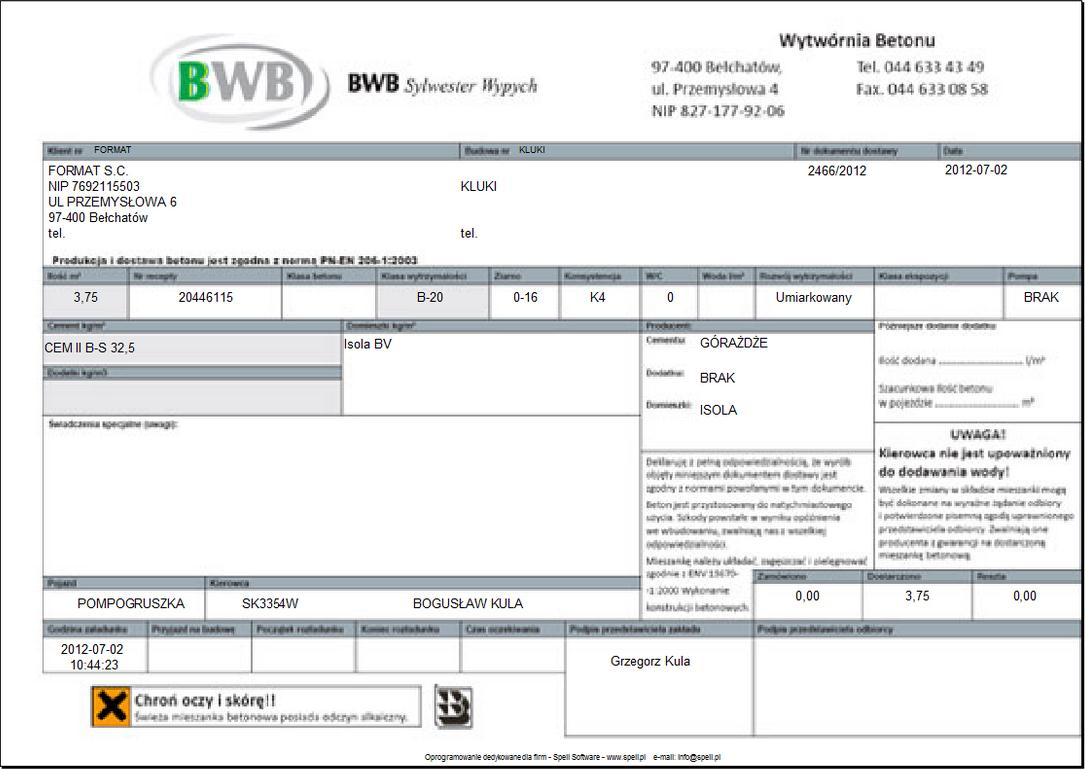
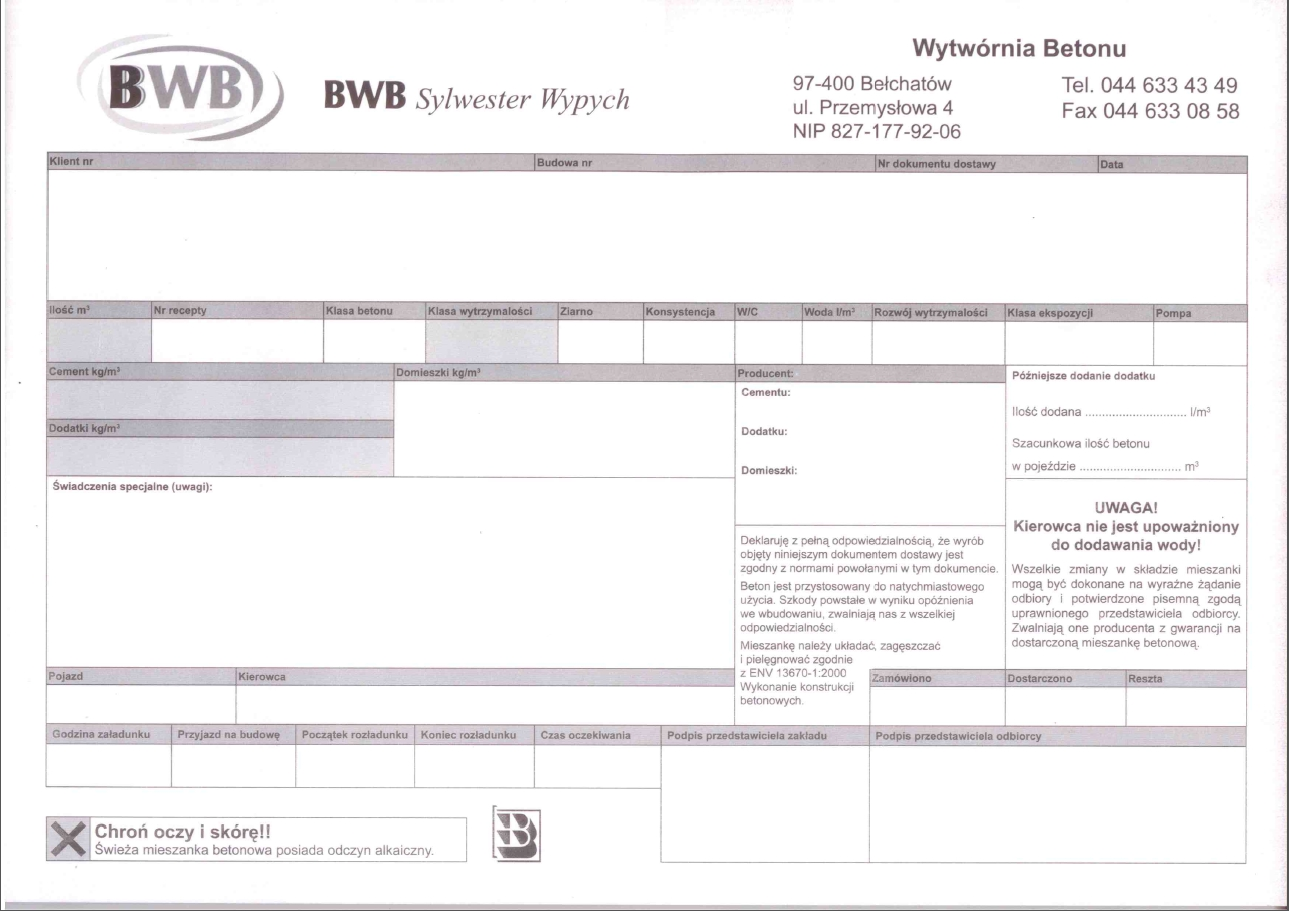
Working with preview and printing delivery note.

diff --git a/src/SmartWorking.Office/SmartWorking.Office.TabsGui/XPSTemplates/DeliveryNoteTemplate.xaml b/src/SmartWorking.Office/SmartWorking.Office.TabsGui/XPSTemplates/DeliveryNoteTemplate.xaml
@@ -3,7 +3,7 @@
   xmlns:x="http://schemas.microsoft.com/winfx/2006/xaml">
     <PageContent >
         <FixedPage  Height="1060.24" Width="793.92" xml:lang="pl-PL" >
-            
+
 
             <FixedPage.Resources>
                 <Style x:Key="notCalledBorder" TargetType="{x:Type Border}">
@@ -21,89 +21,149 @@
             </FixedPage.Resources>
 
 
-            <StackPanel>
+            <StackPanel Margin="-4.02cm,1.02cm,0,0">
                 <StackPanel.RenderTransform>
                     <TransformGroup>
                         <RotateTransform  Angle="90" />
                         <TranslateTransform X="793.92"  />
                     </TransformGroup>
                 </StackPanel.RenderTransform>
-                <StackPanel Margin="1.1cm,4.5cm,0,0" Orientation="Horizontal">
+                <StackPanel Orientation="Horizontal">
                     <Border Style="{StaticResource notCalledBorder}">
-                        <TextBlock Width="10.7cm" Height="2.5cm" Text="{Binding Client}" />
+                        <TextBlock Width="10.5cm" Height="3.04cm" Text="{Binding Client}" />
                     </Border>
                     <Border Style="{StaticResource notCalledBorder}">
-                        <TextBlock Width="8.55cm" Height="2.5cm" Text="q_Buildin_q" />
+                        <TextBlock Width="7.38cm" Height="2.5cm" Text="q_Buildin_q" />
                     </Border>
                     <Border Style="{StaticResource notCalledBorder}">
-                        <TextBlock Width="3.67cm" Height="2.5cm" Text="q_DeliveryNoteNumber_q" />
+                        <TextBlock Width="4.77cm" Height="2.5cm" Text="q_DeliveryNoteNumber_q" />
                     </Border>
                     <Border Style="{StaticResource notCalledBorder}">
-                        <TextBlock Width="3.56cm" Height="2.5cm" Text="q_Date_q"  />
+                        <TextBlock Width="3.2cm" Height="2.5cm" Text="q_Date_q"  />
                     </Border>
 
                 </StackPanel>
-                <StackPanel Margin="1.1cm,0.9cm,0,0" Orientation="Horizontal">
+                <StackPanel Margin="0,0.45cm,0,0" Orientation="Horizontal">
 
                     <Border Style="{StaticResource notCalledBorder}">
-                        <TextBlock Width="2.15cm" Height="0.95cm" Text="q_Amount_q" />
+                        <TextBlock Width="2.18cm" Height="0.95cm" Text="q_Amount_q" />
                     </Border>
                     <Border Style="{StaticResource notCalledBorder}">
-                        <TextBlock Width="3.9cm" Height="0.95cm" Text="q_RecipeNumber_q"/>
+                        <TextBlock Width="3.7cm" Height="0.95cm" Text="q_RecipeNumber_q"/>
                     </Border>
                     <Border Style="{StaticResource notCalledBorder}">
-                        <TextBlock Width="2.4cm" Height="0.95cm" Text="q_ConcreteClass_q"/>
+                        <TextBlock Width="2.18cm" Height="0.95cm" Text="q_ConcreteClass_q"/>
                     </Border>
                     <Border Style="{StaticResource notCalledBorder}">
-                        <TextBlock Width="2.85cm" Height="0.95cm" Text="q_DurabilityClass_q"/>
+                        <TextBlock Width="2.80cm" Height="0.95cm" Text="q_DurabilityClass_q"/>
                     </Border>
                     <Border Style="{StaticResource notCalledBorder}">
-                        <TextBlock Width="1.75cm" Height="0.95cm" Text="q_Granulation_q"/>
+                        <TextBlock Width="1.85cm" Height="0.95cm" Text="q_Granulation_q"/>
+                    </Border>
+                    <Border Style="{StaticResource notCalledBorder}">
+                        <TextBlock Width="1.85cm" Height="0.95cm" Text="q_Konsystencja_q" />
+                    </Border>
+                    <Border Style="{StaticResource notCalledBorder}">
+                        <TextBlock Width="1.4cm" Height="0.95cm" Text="q_WC_q"/>
+                    </Border>
+                    <Border Style="{StaticResource notCalledBorder}">
+                        <TextBlock Width="1.5cm" Height="0.95cm" Text="q_Woda_q"/>
+                    </Border>
+                    <Border Style="{StaticResource notCalledBorder}">
+                        <TextBlock Width="2.80cm" Height="0.95cm" Text="q_RozwojWytrzymalosci_q"/>
+                    </Border>
+                    <Border Style="{StaticResource notCalledBorder}">
+                        <TextBlock Width="3.2cm" Height="0.95cm" Text="q_KlasaEkspozycji_q"/>
+                    </Border>
+                    <Border Style="{StaticResource notCalledBorder}">
+                        <TextBlock Width="1.96cm" Height="0.95cm" Text="q_Pompa_q"/>
                     </Border>
                 </StackPanel>
-                <StackPanel Margin="1.1cm,0.35cm,0,0" Orientation="Horizontal">
+                <StackPanel Margin="0,0.41cm,0,0" Orientation="Horizontal">
                     <StackPanel Orientation="Vertical">
+                        <StackPanel Orientation="Horizontal">
+                            <StackPanel Orientation="Vertical">
 
-                        <Border Style="{StaticResource notCalledBorder}">
-                            <TextBlock Width="7.65cm" Height="0.90cm" Text="q_Client_q"/>
-                        </Border>
-                        <Border Style="{StaticResource notCalledBorder}">
-                            <TextBlock Margin="0,0.4cm,0,0" Width="7.65cm" Height="0.90cm" Text="q_Building_q"/>
-                        </Border>
+                                <Border Style="{StaticResource notCalledBorder}">
+                                    <TextBlock Width="7.42cm" Height="0.90cm" Text="q_Client_q"/>
+                                </Border>
 
+                                <Border Style="{StaticResource notCalledBorder}" Margin="0,0.4cm,0,0">
+                                    <TextBlock  Width="7.42cm" Height="0.86cm" Text="q_Dotatki_q"/>
+                                </Border>
+
+                            </StackPanel>
+                            <StackPanel Orientation="Vertical">
+
+                                <Border Style="{StaticResource notCalledBorder}">
+                                    <TextBlock Width="7.4cm" Height="2.22cm" Text="q_Domieszki_q"/>
+                                </Border>
+
+                            </StackPanel>
+                        </StackPanel>
+                        <StackPanel Margin="0,0.5cm,0,0" >
+                            <StackPanel Orientation="Vertical" HorizontalAlignment="Left">
+                                <Border Style="{StaticResource notCalledBorder}">
+                                    <TextBlock Width="14.8cm" Height="4.05cm" Text="q_Notes_q"/>
+                                </Border>
+                            </StackPanel>
+                        </StackPanel>
                     </StackPanel>
-                    <StackPanel Orientation="Vertical">
+                    <StackPanel Orientation="Vertical" Margin="1.4cm,0,0,0">
 
                         <Border Style="{StaticResource notCalledBorder}">
-                            <TextBlock Width="7.45cm" Height="2.05cm" Text="q_Building_q"/>
+                            <TextBlock Width="4.4cm" Height="0.9cm" Text="q_Cement_q"/>
                         </Border>
+
+                        <Border Style="{StaticResource notCalledBorder}">
+                            <TextBlock Width="4.4cm" Height="0.9cm" Text="q_Dodatki_q"/>
+                        </Border>
+
+                        <Border Style="{StaticResource notCalledBorder}">
+                            <TextBlock Width="4.4cm" Height="1.5cm" Text="q_Domieszki_q"/>
+                        </Border>
+
 
                     </StackPanel>
                 </StackPanel>
-                <StackPanel Margin="1.1cm,0.45cm,0,0" >
-                    <StackPanel Orientation="Vertical" HorizontalAlignment="Left">
-                        <Border Style="{StaticResource notCalledBorder}">
-                            <TextBlock Width="15.3cm" Height="4.05cm" Text="q_Notes_q"/>
-                        </Border>
-                    </StackPanel>
-                </StackPanel>
-                <StackPanel Margin="1.1cm,0.30cm,0,0" >
+
+                <StackPanel Margin="0,0.45cm,0,0" >
                     <StackPanel Orientation="Horizontal" HorizontalAlignment="Left">
                         <Border Style="{StaticResource notCalledBorder}">
-                            <TextBlock Width="4.1cm" Height="0.9cm" Text="q_Date_q"/>
+                            <TextBlock Width="4cm" Height="0.8cm" Text="q_Pojazd_q"/>
                         </Border>
                         <Border Style="{StaticResource notCalledBorder}">
-                            <TextBlock Margin="16.95cm,0,0,0" Width="2.8cm" Height="0.9cm" Text="q_Dostarczono_q"/>
+                            <TextBlock Margin="7.96cm,0,0,0" Width="2.85cm" Height="0.8cm" Text="q_Kierowca_q"/>
                         </Border>
-                        <Border Style="{StaticResource notCalledBorder}">
-                            <TextBlock Width="2.75cm" Height="0.9cm" Text="q_Pozsotalo_q"/>
+
+                        <Border Style="{StaticResource notCalledBorder}" Margin="2.9cm,0,0,0">
+                            <TextBlock Width="2.9cm" Height="0.8cm" Text="q_Zamowiono_q"/>
+                        </Border>
+
+                        <Border Style="{StaticResource notCalledBorder}" >
+                            <TextBlock Width="2.57cm" Height="0.8cm" Text="q_Dostarczono_q"/>
+                        </Border>
+                        <Border Style="{StaticResource notCalledBorder}" >
+                            <TextBlock Width="2.56cm" Height="0.8cm" Text="q_Reszta_q"/>
                         </Border>
                     </StackPanel>
                 </StackPanel>
-                <StackPanel Margin="1.1cm,0.45cm,0,0" >
-                    <StackPanel Orientation="Vertical" HorizontalAlignment="Left">
+                <StackPanel Margin="0,0.49cm,0,0" Orientation="Horizontal">
+                    <StackPanel Orientation="Horizontal">
                         <Border Style="{StaticResource notCalledBorder}">
                             <TextBlock Width="2.65cm" Height="1cm" Text="q_Date_q"/>
+                        </Border>
+                        <Border Style="{StaticResource notCalledBorder}">
+                            <TextBlock Width="2.65cm" Height="1cm" Text="q_PrzyjazdNaBudowe_q"/>
+                        </Border>
+                        <Border Style="{StaticResource notCalledBorder}">
+                            <TextBlock Width="2.5cm" Height="1cm" Text="q_PoczatekRozladunku_q"/>
+                        </Border>
+                        <Border Style="{StaticResource notCalledBorder}">
+                            <TextBlock Width="2.55cm" Height="1cm" Text="q_KoniecRozladunku_q"/>
+                        </Border>
+                        <Border Style="{StaticResource notCalledBorder}">
+                            <TextBlock Width="2.7cm" Height="1cm" Text="q_CzasOczekiwania_q"/>
                         </Border>
                     </StackPanel>
                 </StackPanel>

diff --git a/src/SmartWorking.Office/SmartWorking.Office.TabsGui/XPSTemplates/DeliveryNotePreviewTemplate.xaml b/src/SmartWorking.Office/SmartWorking.Office.TabsGui/XPSTemplates/DeliveryNotePreviewTemplate.xaml
@@ -15,93 +15,155 @@
                 <Style TargetType="TextBlock">
                     <Setter Property="TextWrapping" Value="Wrap"/>
                     <Setter Property="Padding" Value="0.1" />
-                   
+
                     <Setter Property="Opacity" Value="0.5" />
                     <Setter Property="FontSize" Value="20"/>
                 </Style>
             </FixedPage.Resources>
 
-            <StackPanel>
-                <StackPanel Margin="1.1cm,4.5cm,0,0" Orientation="Horizontal">
+            <StackPanel Margin="1.02cm,4.02cm,0,0">
+                <StackPanel Orientation="Horizontal">
                     <Border Style="{StaticResource notCalledBorder}">
-                        <TextBlock Width="10.7cm" Height="2.5cm" Text="{Binding Client}" />
+                        <TextBlock Width="10.5cm" Height="3.04cm" Text="{Binding Client}" />
                     </Border>
                     <Border Style="{StaticResource notCalledBorder}">
-                        <TextBlock Width="8.55cm" Height="2.5cm" Text="q_Buildin_q" />
+                        <TextBlock Width="7.38cm" Height="2.5cm" Text="q_Buildin_q" />
                     </Border>
                     <Border Style="{StaticResource notCalledBorder}">
-                        <TextBlock Width="3.67cm" Height="2.5cm" Text="q_DeliveryNoteNumber_q" />
+                        <TextBlock Width="4.77cm" Height="2.5cm" Text="q_DeliveryNoteNumber_q" />
                     </Border>
                     <Border Style="{StaticResource notCalledBorder}">
-                        <TextBlock Width="3.56cm" Height="2.5cm" Text="q_Date_q"  />
+                        <TextBlock Width="3.2cm" Height="2.5cm" Text="q_Date_q"  />
                     </Border>
 
                 </StackPanel>
-                <StackPanel Margin="1.1cm,0.9cm,0,0" Orientation="Horizontal">
+                <StackPanel Margin="0,0.45cm,0,0" Orientation="Horizontal">
 
                     <Border Style="{StaticResource notCalledBorder}">
-                        <TextBlock Width="2.15cm" Height="0.95cm" Text="q_Amount_q" />
+                        <TextBlock Width="2.18cm" Height="0.95cm" Text="q_Amount_q" />
                     </Border>
                     <Border Style="{StaticResource notCalledBorder}">
-                        <TextBlock Width="3.9cm" Height="0.95cm" Text="q_RecipeNumber_q"/>
+                        <TextBlock Width="3.7cm" Height="0.95cm" Text="q_RecipeNumber_q"/>
                     </Border>
                     <Border Style="{StaticResource notCalledBorder}">
-                        <TextBlock Width="2.4cm" Height="0.95cm" Text="q_ConcreteClass_q"/>
+                        <TextBlock Width="2.18cm" Height="0.95cm" Text="q_ConcreteClass_q"/>
                     </Border>
                     <Border Style="{StaticResource notCalledBorder}">
-                        <TextBlock Width="2.85cm" Height="0.95cm" Text="q_DurabilityClass_q"/>
+                        <TextBlock Width="2.80cm" Height="0.95cm" Text="q_DurabilityClass_q"/>
                     </Border>
                     <Border Style="{StaticResource notCalledBorder}">
-                        <TextBlock Width="1.75cm" Height="0.95cm" Text="q_Granulation_q"/>
+                        <TextBlock Width="1.85cm" Height="0.95cm" Text="q_Granulation_q"/>
+                    </Border>
+                    <Border Style="{StaticResource notCalledBorder}">
+                        <TextBlock Width="1.85cm" Height="0.95cm" Text="q_Konsystencja_q" />
+                    </Border>
+                    <Border Style="{StaticResource notCalledBorder}">
+                        <TextBlock Width="1.4cm" Height="0.95cm" Text="q_WC_q"/>
+                    </Border>
+                    <Border Style="{StaticResource notCalledBorder}">
+                        <TextBlock Width="1.5cm" Height="0.95cm" Text="q_Woda_q"/>
+                    </Border>
+                    <Border Style="{StaticResource notCalledBorder}">
+                        <TextBlock Width="2.80cm" Height="0.95cm" Text="q_RozwojWytrzymalosci_q"/>
+                    </Border>
+                    <Border Style="{StaticResource notCalledBorder}">
+                        <TextBlock Width="3.2cm" Height="0.95cm" Text="q_KlasaEkspozycji_q"/>
+                    </Border>
+                    <Border Style="{StaticResource notCalledBorder}">
+                        <TextBlock Width="1.96cm" Height="0.95cm" Text="q_Pompa_q"/>
                     </Border>
                 </StackPanel>
-                <StackPanel Margin="1.1cm,0.35cm,0,0" Orientation="Horizontal">
+                <StackPanel Margin="0,0.41cm,0,0" Orientation="Horizontal">
                     <StackPanel Orientation="Vertical">
+                        <StackPanel Orientation="Horizontal">
+                            <StackPanel Orientation="Vertical">
 
-                        <Border Style="{StaticResource notCalledBorder}">
-                            <TextBlock Width="7.65cm" Height="0.90cm" Text="q_Client_q"/>
-                        </Border>
-                        <Border Style="{StaticResource notCalledBorder}">
-                            <TextBlock Margin="0,0.4cm,0,0" Width="7.65cm" Height="0.90cm" Text="q_Building_q"/>
-                        </Border>
+                                <Border Style="{StaticResource notCalledBorder}">
+                                    <TextBlock Width="7.42cm" Height="0.90cm" Text="q_Client_q"/>
+                                </Border>
 
+                                <Border Style="{StaticResource notCalledBorder}" Margin="0,0.4cm,0,0">
+                                    <TextBlock  Width="7.42cm" Height="0.86cm" Text="q_Dotatki_q"/>
+                                </Border>
+
+                            </StackPanel>
+                            <StackPanel Orientation="Vertical">
+
+                                <Border Style="{StaticResource notCalledBorder}">
+                                    <TextBlock Width="7.4cm" Height="2.22cm" Text="q_Domieszki_q"/>
+                                </Border>
+
+                            </StackPanel>
+                        </StackPanel>
+                        <StackPanel Margin="0,0.5cm,0,0" >
+                            <StackPanel Orientation="Vertical" HorizontalAlignment="Left">
+                                <Border Style="{StaticResource notCalledBorder}">
+                                    <TextBlock Width="14.8cm" Height="4.05cm" Text="q_Notes_q"/>
+                                </Border>
+                            </StackPanel>
+                        </StackPanel>
                     </StackPanel>
-                    <StackPanel Orientation="Vertical">
+                    <StackPanel Orientation="Vertical" Margin="1.4cm,0,0,0">
 
                         <Border Style="{StaticResource notCalledBorder}">
-                            <TextBlock Width="7.45cm" Height="2.05cm" Text="q_Building_q"/>
+                            <TextBlock Width="4.4cm" Height="0.9cm" Text="q_Cement_q"/>
                         </Border>
+
+                        <Border Style="{StaticResource notCalledBorder}">
+                            <TextBlock Width="4.4cm" Height="0.9cm" Text="q_Dodatki_q"/>
+                        </Border>
+
+                        <Border Style="{StaticResource notCalledBorder}">
+                            <TextBlock Width="4.4cm" Height="1.5cm" Text="q_Domieszki_q"/>
+                        </Border>
+
 
                     </StackPanel>
                 </StackPanel>
-                <StackPanel Margin="1.1cm,0.45cm,0,0" >
-                    <StackPanel Orientation="Vertical" HorizontalAlignment="Left">
-                        <Border Style="{StaticResource notCalledBorder}">
-                            <TextBlock Width="15.3cm" Height="4.05cm" Text="q_Notes_q"/>
-                        </Border>
-                    </StackPanel>
-                </StackPanel>
-                <StackPanel Margin="1.1cm,0.30cm,0,0" >
+
+                <StackPanel Margin="0,0.45cm,0,0" >
                     <StackPanel Orientation="Horizontal" HorizontalAlignment="Left">
                         <Border Style="{StaticResource notCalledBorder}">
-                            <TextBlock Width="4.1cm" Height="0.9cm" Text="q_Date_q"/>
+                            <TextBlock Width="4cm" Height="0.8cm" Text="q_Pojazd_q"/>
                         </Border>
                         <Border Style="{StaticResource notCalledBorder}">
-                            <TextBlock Margin="16.95cm,0,0,0" Width="2.8cm" Height="0.9cm" Text="q_Dostarczono_q"/>
+                            <TextBlock Margin="7.96cm,0,0,0" Width="2.85cm" Height="0.8cm" Text="q_Kierowca_q"/>
                         </Border>
-                        <Border Style="{StaticResource notCalledBorder}">
-                            <TextBlock Width="2.75cm" Height="0.9cm" Text="q_Pozsotalo_q"/>
+
+                        <Border Style="{StaticResource notCalledBorder}" Margin="2.9cm,0,0,0">
+                            <TextBlock Width="2.9cm" Height="0.8cm" Text="q_Zamowiono_q"/>
+                        </Border>
+
+                        <Border Style="{StaticResource notCalledBorder}" >
+                            <TextBlock Width="2.57cm" Height="0.8cm" Text="q_Dostarczono_q"/>
+                        </Border>
+                        <Border Style="{StaticResource notCalledBorder}" >
+                            <TextBlock Width="2.56cm" Height="0.8cm" Text="q_Reszta_q"/>
                         </Border>
                     </StackPanel>
                 </StackPanel>
-                <StackPanel Margin="1.1cm,0.45cm,0,0" >
-                    <StackPanel Orientation="Vertical" HorizontalAlignment="Left">
+                <StackPanel Margin="0,0.49cm,0,0" Orientation="Horizontal">
+                    <StackPanel Orientation="Horizontal">
                         <Border Style="{StaticResource notCalledBorder}">
                             <TextBlock Width="2.65cm" Height="1cm" Text="q_Date_q"/>
                         </Border>
+                        <Border Style="{StaticResource notCalledBorder}">
+                            <TextBlock Width="2.65cm" Height="1cm" Text="q_PrzyjazdNaBudowe_q"/>
+                        </Border>
+                        <Border Style="{StaticResource notCalledBorder}">
+                            <TextBlock Width="2.5cm" Height="1cm" Text="q_PoczatekRozladunku_q"/>
+                        </Border>
+                        <Border Style="{StaticResource notCalledBorder}">
+                            <TextBlock Width="2.55cm" Height="1cm" Text="q_KoniecRozladunku_q"/>
+                        </Border>
+                        <Border Style="{StaticResource notCalledBorder}">
+                            <TextBlock Width="2.7cm" Height="1cm" Text="q_CzasOczekiwania_q"/>
+                        </Border>
                     </StackPanel>
+
                 </StackPanel>
             </StackPanel>
         </FixedPage>
     </PageContent >
 </FixedDocument>
+
